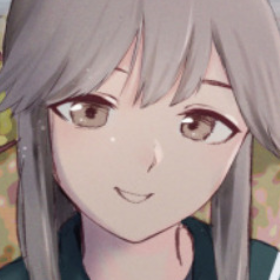
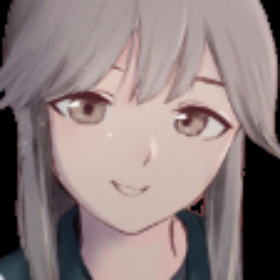
Join UI and model

diff --git a/Screen/Screen.py b/Screen/Screen.py
@@ -10,7 +10,7 @@ from anime_face_landmark.AnimeFaceDetect import anime_face_detect
 from  database import  *
 import cv2
 import os.path
-
+import  numpy as np
 
 from kivy.app import App
 from kivy.lang import Builder
@@ -27,9 +27,9 @@ from kivy.uix.screenmanager import (ScreenManager, Screen, NoTransition, SlideTr
 # 日本語フォント表示対応
 from kivy.core.text import LabelBase, DEFAULT_FONT
 from kivy.resources import resource_add_path
-#from  Animator.Animator import CreateAnimator
+from  Animator.Animator import CreateAnimator
 
-#animator=CreateAnimator()
+animator=CreateAnimator()
 #animator.update_image().show()
 
 # フォント読み込み Windows用
@@ -55,7 +55,7 @@ null_path = '../images/faceset.png'  # 画像未入力時に表示する
 
 # DataBaseのインスタンス化
 #DataLoarderクラスのインスタンス化
-loarder=GetDataLoarder()
+loarder=DataLoarder()
 #それぞれのインスタンスを読み込む
 f2b=loarder.create_foward2back()
 b2f=loarder.create_back2foward()
@@ -97,6 +97,7 @@ class SettingsScreen(Screen):
                 self.drop_area_image.source = output_path
                 self.drop_area_image.reload()
                 DB.SetSettingImage(output_path)
+                animator.update_base_image()
             else:
                 self.drop_area_label.text = '顔が検出されませんでした'
                 self.drop_area_image.source = null_path
@@ -126,7 +127,9 @@ class VideoManager(Image):
     def __init__(self, **kwargs):
         super().__init__(**kwargs)
         self.is_animation = False
-        self.capture = cv2.VideoCapture(1)
+        self.capture = cv2.VideoCapture(0)
+        self.animator = animator
+
         Clock.schedule_interval(self.update, 0.01)
 
     def start_animation(self):
@@ -138,24 +141,41 @@ class VideoManager(Image):
         self.cap.release()
 
     def update(self, dt):
-        #if self.is_animation == True: #上手くいかないので一旦コメントアウト
-            ret, self.frame = self.capture.read()
+        ret, self.frame = self.capture.read()
 
-            # リアル顔画像をデータベースにセット
-            DB.SetRealFaces(self.frame)
+        # リアル顔画像をデータベースにセット
+        DB.SetRealFaces(self.frame)
 
-            #アニメ顔画像のデータベースから取得
-            #self.animeface = DB.GetAnimeFaces()
-            self.animeface = self.frame #ビデオ表示テスト
+        # アニメ顔画像のデータベースから取得
+        # self.animeface = DB.GetAnimeFaces()
 
-            # Kivy Textureに変換
-            buf = cv2.flip(self.animeface, -1).tostring()
-            texture = Texture.create(size=(self.animeface.shape[1], self.animeface.shape[0]), colorfmt='bgr')
-            texture.blit_buffer(buf, colorfmt='bgr', bufferfmt='ubyte')
-            # インスタンスのtextureを変更
-            self.texture = texture
+        # ビデオ表示テスト
+        # アニメ顔画像のデータベースから取得
+        # self.animeface = DB.GetAnimeFaces()
+        result = self.animator.update_image()
+        if result == None:
+            return
+        _, flg = result
+        if not flg:
+            return
+        animeface=DB.GetAnimeFaces()
+        self.animeface =cv2.resize(animeface, (280, 280))
+
+        #self.animeface = self.frame
 
 
+
+        # Kivy Textureに変換
+        buf = cv2.flip(self.animeface, -1).tobytes()
+        texture = Texture.create(size=(self.animeface.shape[1], self.animeface.shape[0]), colorfmt='rgba')
+        texture.blit_buffer(buf, colorfmt='rgba', bufferfmt='ubyte')
+        # インスタンスのtextureを変更
+        self.texture = texture
+
+def show_img(img, title=""):
+    cv2.imshow(title, img)
+    cv2.waitKey(0)
+    cv2.destroyAllWindows()
     '''
     image_texture = ObjectProperty(None)
     is_animating = False

diff --git a/Animator/Animator.py b/Animator/Animator.py
@@ -1,9 +1,9 @@
 import os
 import sys
-
 sys.path.append(os.getcwd())
 sys.path.append(os.path.join(os.path.dirname(__file__), '..'))
 sys.path.append(os.path.join(os.path.dirname(__file__), '../..'))
+
 from tkinter import Tk, Frame, LEFT, Label, BOTH, GROOVE, Button, filedialog, PhotoImage, messagebox
 
 import numpy as np
@@ -21,11 +21,11 @@ from Animator.puppet.util import compute_left_eye_normalized_ratio, compute_righ
 from Animator.tha.combiner import CombinerSpec
 from Animator.tha.face_morpher import FaceMorpherSpec
 from Animator.tha.two_algo_face_rotator import TwoAlgoFaceRotatorSpec
-from Animator.util import rgba_to_numpy_image, extract_pytorch_image_from_filelike,process_image
+from Animator.util import rgba_to_numpy_image, extract_pytorch_image_from_filelike,process_image,show_img
 
 from msvcrt import getch
 
-from database import *
+import  database
 
 class Animator:
 
@@ -35,8 +35,7 @@ class Animator:
                  landmark_locator,
                  video_capture,
                  torch_device: torch.device):
-        self.database=DataLoarder().create_database()
-
+        self.database=database.DataLoarder().create_database()
         self.poser = poser
         self.face_detector = face_detector
         self.landmark_locator = landmark_locator
@@ -50,22 +49,22 @@ class Animator:
         self.current_pose = None
         self.last_pose = None
 
-        self.image_path=r"Ganimation/AnimFaceGan/Animator/data/illust/image/face.png"
+        #self.image_path=os.path.dirname(os.path.abspath(__file__))+"/data/illust/image/face.png"
+        self.image_path="./face.png"
 
         self.update_base_image()
 
     def update_base_image(self):
-        process_image(self.database.SettingImage())
-        self.source_image = extract_pytorch_image_from_filelike(self.image_path).to(self.torch_device).unsqueeze(dim=0)
-
+        #process_image(self.database.SettingImage)
+        self.source_image = extract_pytorch_image_from_filelike(self.database.SettingImage).to(self.torch_device).unsqueeze(dim=0)
 
     def update_image(self):
-        self.update_base_image()
-        there_is_frame,frame=self.video_capture.read()
-        #frame = self.database.GetRealFaces()#self.video_capture.read()
-        #there_is_frame=frame==None
-        if not there_is_frame:
-            return
+        #self.update_base_image()
+        #there_is_frame,frame=self.video_capture.read()
+        frame = self.database.GetRealFaces()#self.video_capture.read()
+        there_is_frame=len(frame)==0
+        if there_is_frame:
+            return self.source_image,False
         rgb_frame = cv2.cvtColor(frame, cv2.COLOR_BGR2RGB)
         faces = self.face_detector(rgb_frame)
         euler_angles = None
@@ -114,8 +113,8 @@ class Animator:
             numpy_image = rgba_to_numpy_image(posed_image[0])
             pil_image = PIL.Image.fromarray(np.uint8(np.rint(numpy_image * 255.0)), mode='RGBA')
 
-            self.database.SetAnimeFaces(numpy_image)
-            return pil_image
+            self.database.SetAnimeFaces(np.array(numpy_image*255,dtype=np.uint8))
+            return pil_image,True
 
 
     def draw_face_box(self, frame, face_box_points):
@@ -145,7 +144,7 @@ def CreateAnimator():
         device=cuda)
 
     face_detector = dlib.get_frontal_face_detector()
-    landmark_locator = dlib.shape_predictor("data/shape_predictor_68_face_landmarks.dat")
+    landmark_locator = dlib.shape_predictor(os.path.dirname(os.path.abspath(__file__))+"\data\shape_predictor_68_face_landmarks.dat")
 
     video_capture = cv2.VideoCapture(0)
 

diff --git a/Animator/util.py b/Animator/util.py
@@ -17,7 +17,7 @@ def torch_save(content, file_name):
 
 
 def torch_load(file_name, **kwargs):
-    with open(file_name, 'rb') as f:
+    with open(os.path.dirname(os.path.abspath(__file__))+"/"+file_name, 'rb') as f:
         return torch.load(f, **kwargs)
 
 
@@ -76,10 +76,12 @@ def extract_pytorch_image_from_filelike(file):
     pil_image = PIL.Image.open(file)
     pil_image=pil_image.resize((256, 256))
     image_size = pil_image.width
+    print(np.shape(pil_image))
     if np.shape(pil_image)[2]==3:
-        image=rgb2rgba(pil_image)
+        image=rgb2rgba(np.asarray(pil_image))
     else:
         image = (numpy.asarray(pil_image) / 255.0).reshape(image_size, image_size, 4)
+    #image[:, :, 3] = np.where(np.all(image == 1, axis=-1), 0, 1)
 
     image[:, :, 0:3] = srgb_to_linear(image[:, :, 0:3])
     image = image \
@@ -105,40 +107,44 @@ def create_parent_dir(file_name):
 
 
 def process_image(path):
-    image=cv2.imread(path)
-    image=cv2.resize(image,(256,256))
-    image=face2center(image)
+    save_path = os.path.dirname(os.path.abspath(__file__)) + "/data/illust/image/face.png"
+    save_path = "./face.png"
+    image = cv2.imread(path)
+    # image=remove_bg(path)
+    image = cv2.resize(image, (256, 256))
+    image = face2center(image)
     black = [0, 0, 0]
     white = [255, 255, 255]
     image[np.where((image == black).all(axis=2))] = white
-    image=rgb2rgba(image)
-    save_path=r"Ganimation/AnimFaceGan/Animator/data/illust/image/face.png"
+    # image[:, :, 2] = np.where(np.all(image == 0, axis=-1), 0, 255)
+    image = rgb2rgba(image)
     cv2.imwrite(save_path, image)
-
 
 
 def face2center(image):
     center = (int(np.shape(image)[0] / 2), int(np.shape(image)[0] / 2))
     # スケールを指定
-    scale = 128/np.shape(image)[0]
+    scale = 128 / np.shape(image)[0]
     # getRotationMatrix2D関数を使用
     trans = cv2.getRotationMatrix2D(center, 0, scale)
     image2 = cv2.warpAffine(image, trans, np.shape(image)[:2], borderValue=(255, 255, 255))
 
-    #image2=cv2.cvtColor(image2.astype("float32"), cv2.COLOR_BGR2RGB)
+    # image2=cv2.cvtColor(image2.astype("float32"), cv2.COLOR_BGR2RGB)
 
-    return  image2
+    return image2
+
+
 
 def rgb2rgba(image):
     image = (np.asarray(image) / 255.0).reshape(256, 256, 3)
-    new_image=np.zeros((256,256,4))
+    new_image = np.zeros((256, 256, 4))
     for i in range(len(image)):
         for j in range(len(image)):
-            img=np.append(image[i][j],1)
-            new_image[i][j]=img
-    a=np.all(new_image == 1, axis=-1)
+            img = np.append(image[i][j], 1)
+            new_image[i][j] = img
+    a = np.all(new_image == 1, axis=-1)
     new_image[:, :, 3] = np.where(np.all(new_image == 1, axis=-1), 0, 1)
-    new_image=np.array(new_image)*255
+    new_image = np.array(new_image)
     return new_image
 
 def show_img(img,title=""):

diff --git a/database/DataBase.py b/database/DataBase.py
@@ -8,15 +8,23 @@ sys.path.append(os.path.join(os.path.dirname(__file__), '../..'))
 import  numpy  as np
 from  Animator.Animator import CreateAnimator
 
-class DataBase:
+class Singleton(object):
+    def __new__(cls, *args, **kargs):
+        if not hasattr(cls, "_instance"):
+            cls._instance = super(Singleton, cls).__new__(cls)
+        return cls._instance
+
+
+class DataBase(Singleton):
     def __name__(self):
         return  "DataBase"
 
     def __init__(self):
         self.AnimeFaces=[]
         self.RealFaces=[]
-        self.SettingImage=r"C:\Codding\Ganimation\Ganimation\AnimFaceGan\Animator\data\illust\waifu_02_256.png"
-        self.animator=CreateAnimator()
+        self.SettingImage=r"C:\Users\kisuk\Downloads\girl_30-removebg-preview (1).png"
+
+        #self.animator=CreateAnimator()
         pass
 
     def GetAnimeFaces(self):
@@ -33,9 +41,9 @@ class DataBase:
 
     def SetSettingImage(self,image):
         self.SettingImage=image
+        #self.animator.update_base_image()
 
-    def update(self):
-        self.animator.update_image()
+
 
 
 
